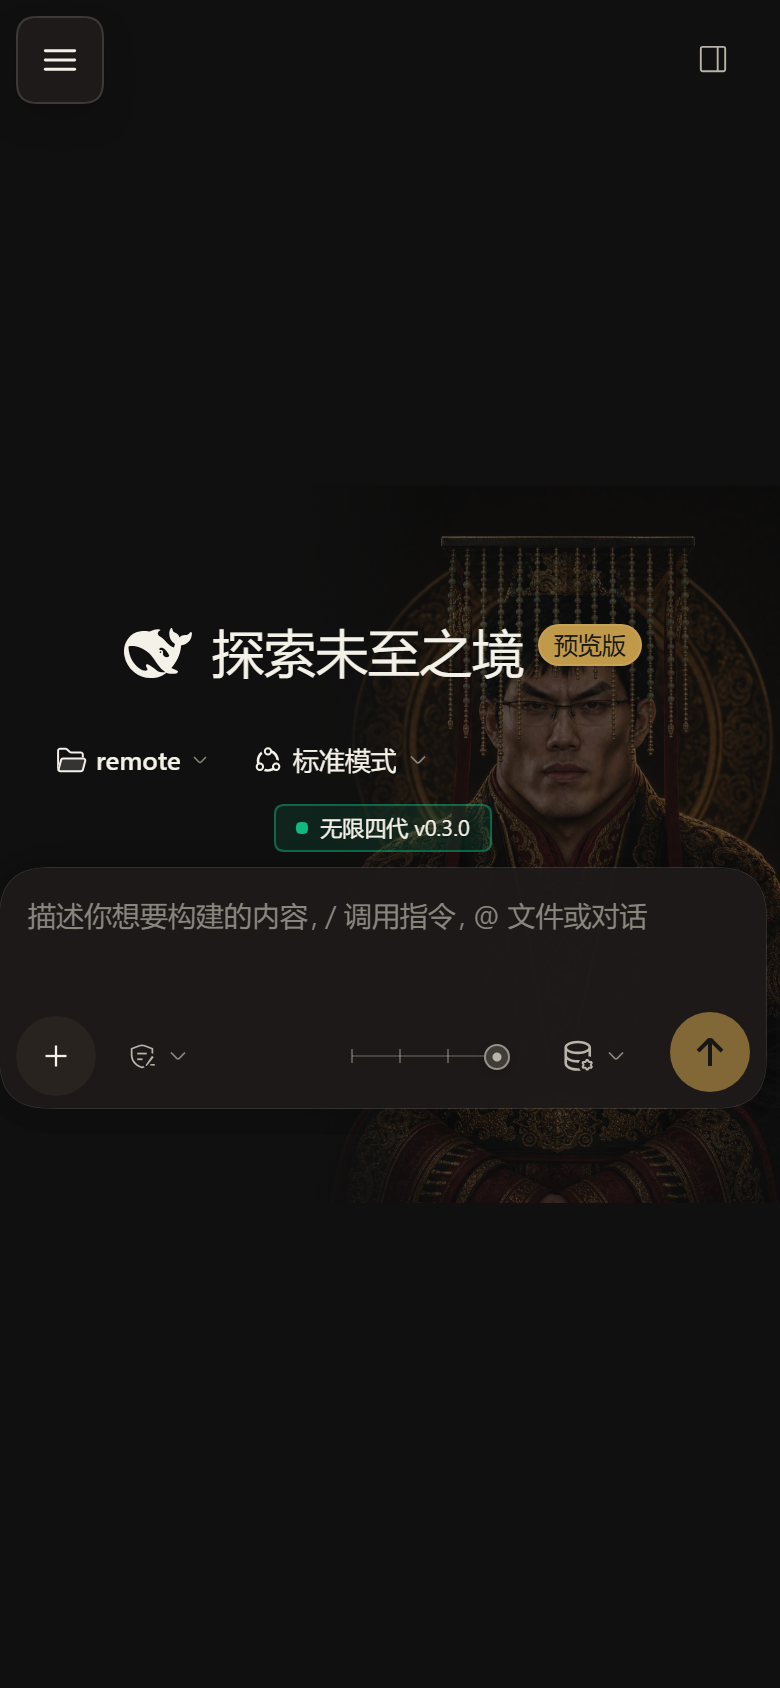
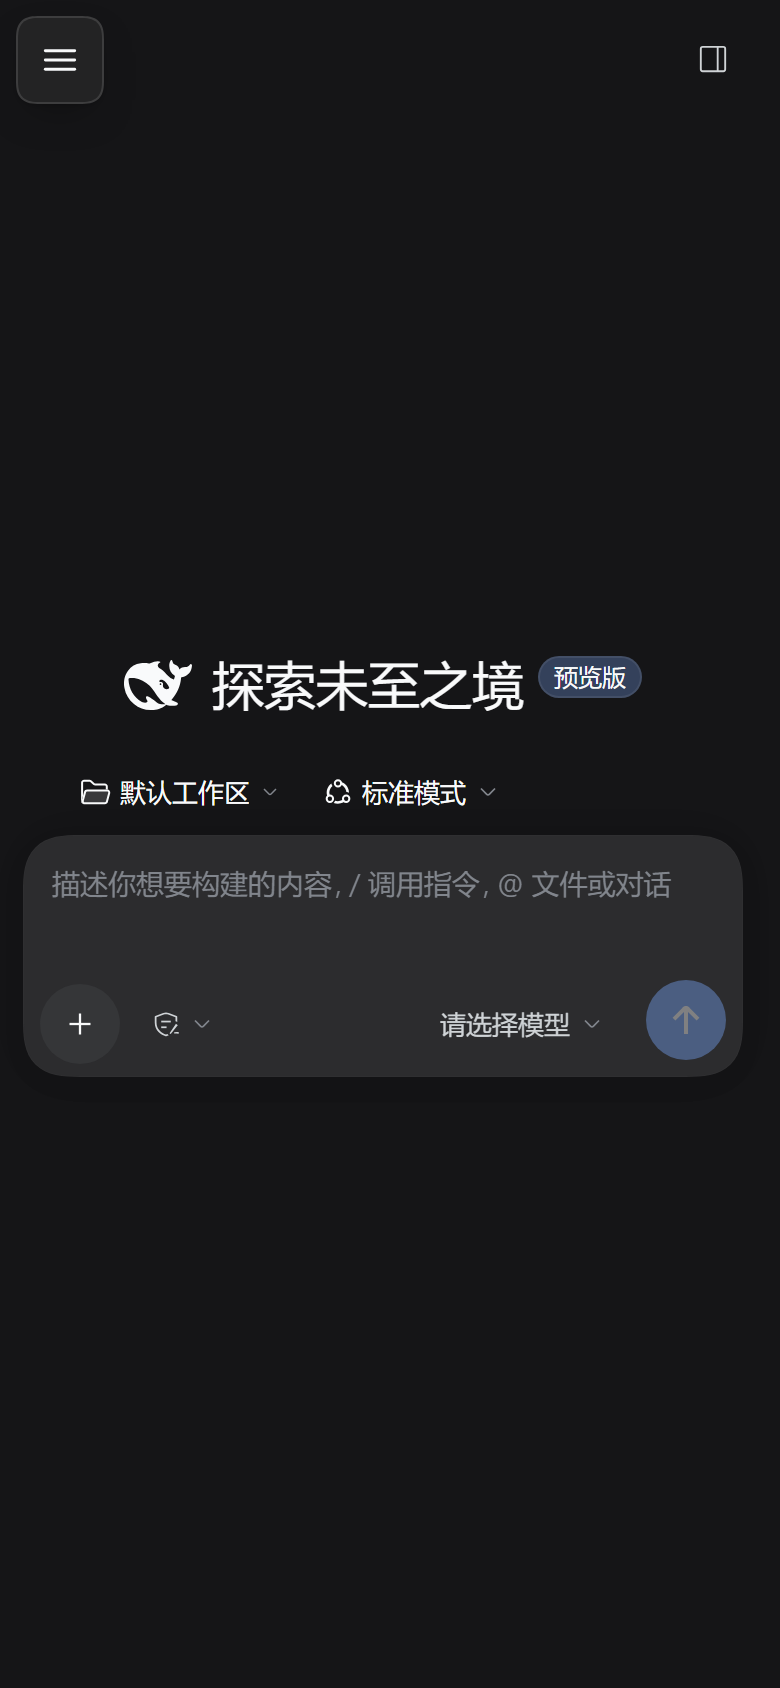
fix: restore the overlay slot so the folder picker renders (0.4.7)
The picker renders through shell.overlay, but that registration was dropped when
the panel moved into the main column (0.3.0). __DSH_DIRECTORY_PICKER__.pick() had
no receiver, so 'Add workspace' silently did nothing.

- shell.overlay registered again, independent of the other two surfaces
- screenshots retaken on a throwaway DSH_HOME (no real workspaces or sessions)

79 tests green.

diff --git a/client.js b/client.js
@@ -56,7 +56,7 @@ window.__ModuleLoader__.load({
     // prefix. An absolute path here would break remote access through a tunnel.
     var BASE = "./dsh-remote-portal";
   // Must match package.json: it is what busts the browser cache for the layer.
-  var CLIENT_VERSION = "0.4.6";
+  var CLIENT_VERSION = "0.4.7";
     var POLL_MS = 3000;         // status poll while the settings page is visible
     var MIN_PW = 8;             // matches the host's "≥8 recommended" rule (§3)
     var COPY_FEEDBACK_MS = 1600;
@@ -2351,6 +2351,7 @@ window.__ModuleLoader__.load({
       var PANEL_ID = "dsh-remote-portal";
       try {
         if (ctx && ctx.slots && typeof ctx.slots.inject === "function") {
+          // The sidebar entry (the button) …
           ctx.slots.inject("sidebar.panellist", function () {
             return ctx.slots.register({
               name: "sidebar.panellist",
@@ -2361,6 +2362,8 @@ window.__ModuleLoader__.load({
               return h(Icon, { name: "portal", size: (props && props.size) || 18 });
             });
           });
+
+          // … and the page it switches to.
           ctx.slots.inject("main", function () {
             return ctx.slots.register({ name: "main", key: PANEL_ID }, function PanelPage() {
               return h("div", { className: "drp-ui drp-page" },
@@ -2371,6 +2374,17 @@ window.__ModuleLoader__.load({
                       h("p", { className: "drp-page-sub" }, t("subtitle")))),
                   h(RemotePortalSection, { page: true })));
             });
+          });
+
+          // The directory picker needs a surface of its own: the panel lives in
+          // `main`, so the picker renders through the shell overlay slot. Without
+          // this registration __DSH_DIRECTORY_PICKER__.pick() has no receiver and
+          // "Add workspace" silently does nothing.
+          ctx.slots.inject("shell.overlay", function () {
+            return ctx.slots.register(
+              { name: "shell.overlay", id: "dsh-remote-portal-picker", order: 95 },
+              PortalOverlayRouter,
+            );
           });
         }
       } catch (e) { /* slot absent: nothing to attach to */ }
@@ -2402,6 +2416,7 @@ window.__ModuleLoader__.load({
     return { inject: ["slots"], apply: apply };
   }
 });
+
 
 
 

diff --git a/index.js b/index.js
@@ -33,7 +33,7 @@ export const inject = ["webServer"];
 
 const PLUGIN_NAME = "dsh-remote-portal";
 // Bumped with package.json; also used to invalidate the injected asset URLs.
-const PLUGIN_VERSION = "0.4.6";
+const PLUGIN_VERSION = "0.4.7";
 const PREFIX = "/dsh-remote-portal";
 const HERE = dirname(fileURLToPath(import.meta.url));
 const ASSET_DIR = join(HERE, "assets");
@@ -716,6 +716,7 @@ export function apply(ctx, config = {}) {
 
   log.info(`ready — state in ${stateDir}, panel at ${PREFIX}/status`);
 }
+
 
 
 

diff --git a/CHANGELOG.md b/CHANGELOG.md
@@ -3,6 +3,30 @@
 All notable changes to this project. The format is loosely [Keep a Changelog](https://keepachangelog.com/);
 versions are the plugin's own, not dsh's.
 
+## 0.4.7 — 2026-10-22
+
+### Fixed — "Add workspace" did nothing
+The directory picker renders through the `shell.overlay` slot, but that
+registration had been lost when the panel moved into the `main` column (0.3.0).
+`__DSH_DIRECTORY_PICKER__.pick()` therefore had no receiver: the host called it,
+nothing rendered, and the flow ended silently.
+
+- `shell.overlay` is registered again, next to `sidebar.panellist` and `main`
+- the three registrations are independent: one failing surface no longer takes the
+  other two down with it (a nested `try` from an earlier edit was doing exactly
+  that, and swallowing the reason)
+
+Verified on a clean profile: `pick()` renders the picker, lists the host's
+directories, and `使用此目录` returns the path.
+
+### Changed — screenshots retaken on a clean profile
+The README images were taken with a throwaway `DSH_HOME`, so they show no real
+workspaces or sessions: the panel, the phone layout, the sidebar drawer and the
+folder picker.
+
+### Tests
+- 79 tests green.
+
 ## 0.4.6 — 2026-10-22
 
 ### Fixed — "…" still disappeared on the machine itself
@@ -798,6 +822,7 @@ real sockets.
 Initial version: authenticated gateway (HTTP + WebSocket reverse proxy), password
 / one-time QR pairing / device registry / lockout, dsh browser-cookie minting,
 login wall, Settings panel, mobile presentation layer, install script, 51 tests.
+
 
 
 
